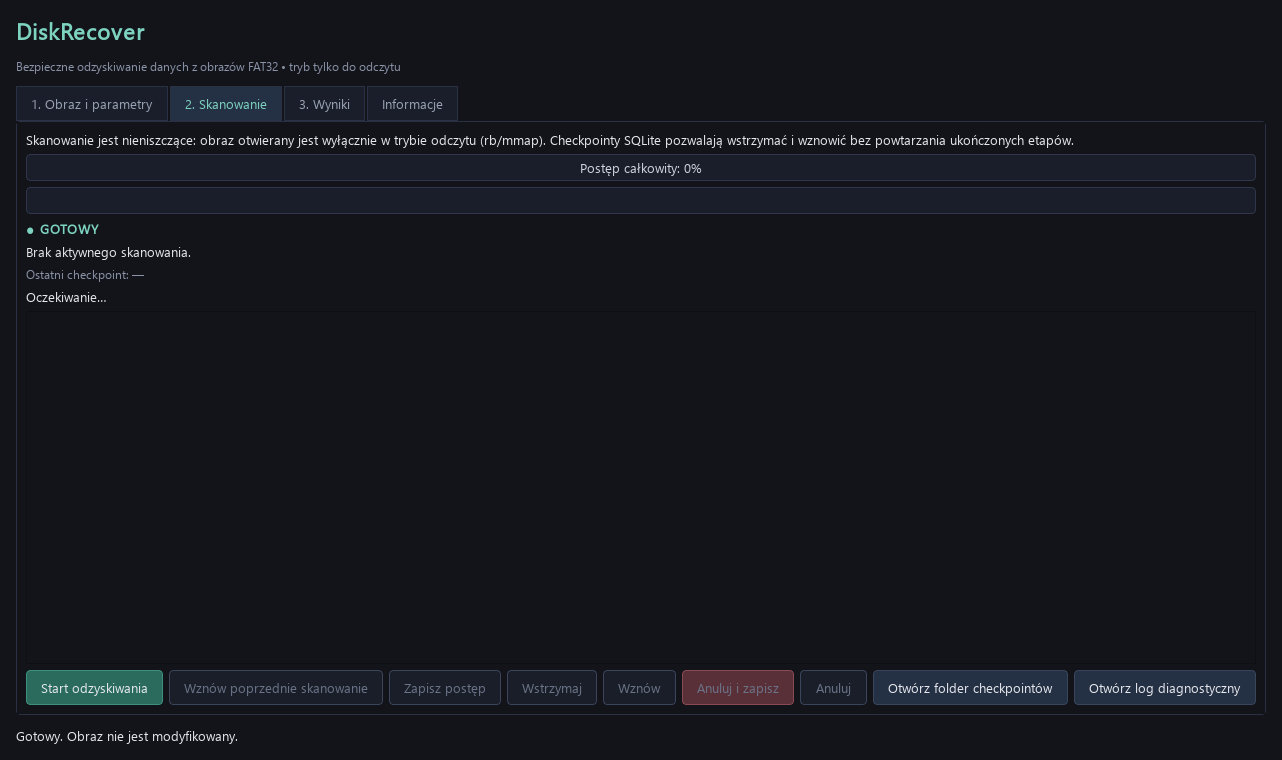
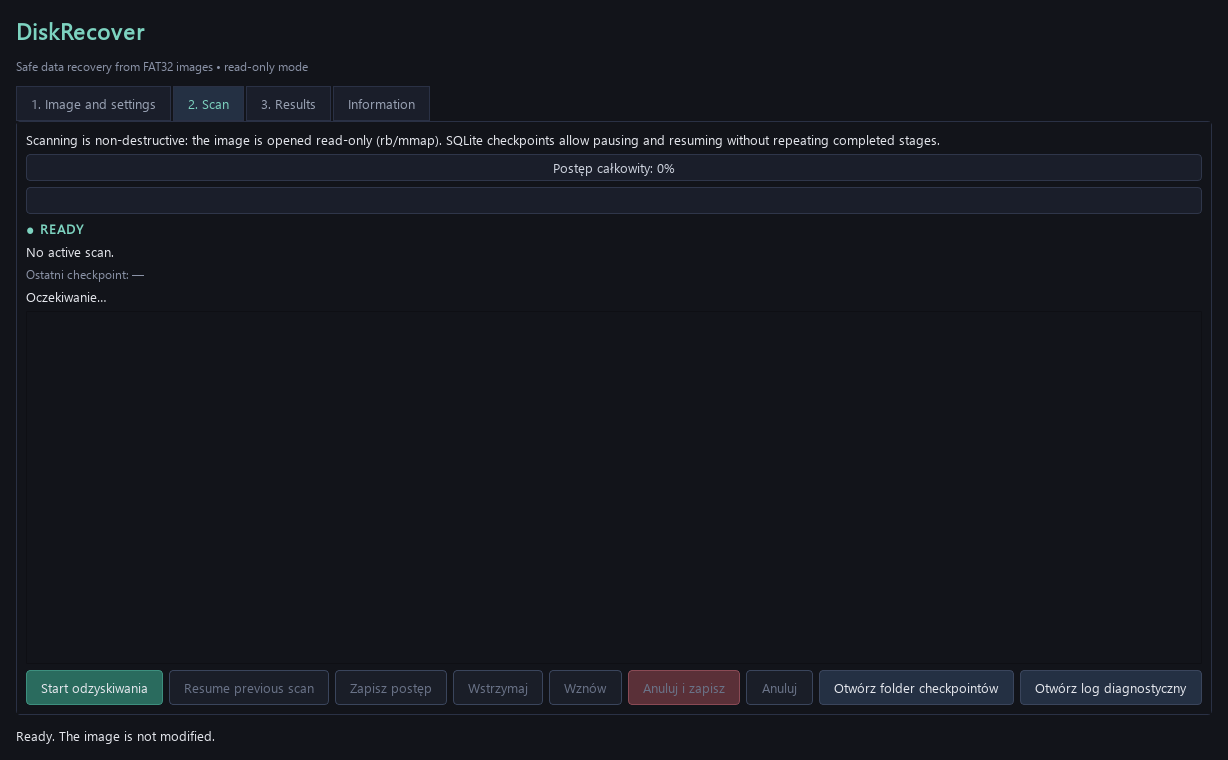
add English and Polish UI language switching

diff --git a/diskrecover/gui/main_window.py b/diskrecover/gui/main_window.py
@@ -8,6 +8,7 @@ from pathlib import Path
 
 from PySide6.QtCore import Qt, QTimer
 from PySide6.QtWidgets import (
+    QAbstractButton,
     QCheckBox,
     QComboBox,
     QDialog,
@@ -37,6 +38,7 @@ from diskrecover.core.checkpoint import ResultStore, default_checkpoint_dir
 from diskrecover.core.recovery import RecoveryEngine, RecoveryMode, available_checkpoints
 from diskrecover.gui.theme import DARK_QSS
 from diskrecover.gui.workers import AnalyzeWorker, RecoverWorker
+from diskrecover.i18n import UI_TRANSLATIONS
 
 class CheckpointPickerDialog(QDialog):
     def __init__(self, checkpoints: list[dict], parent=None) -> None:
@@ -81,7 +83,8 @@ class CheckpointPickerDialog(QDialog):
 class MainWindow(QMainWindow):
     def __init__(self, initial_image: str | None = None) -> None:
         super().__init__()
-        self.setWindowTitle("DiskRecover — odzyskiwanie FAT32")
+        self._language = "en"
+        self.setWindowTitle("DiskRecover — FAT32 recovery")
         self.resize(1100, 760)
         self.setStyleSheet(DARK_QSS)
 
@@ -106,7 +109,8 @@ class MainWindow(QMainWindow):
         layout.addWidget(brand)
         layout.addWidget(sub)
 
-        tabs = QTabWidget()
+        self.tabs = QTabWidget()
+        tabs = self.tabs
         layout.addWidget(tabs, 1)
 
         tabs.addTab(self._build_source_tab(), "1. Obraz i parametry")
@@ -120,7 +124,76 @@ class MainWindow(QMainWindow):
         if initial_image:
             self.image_edit.setText(initial_image)
 
+        self._retranslate_ui()
         self._refresh_resume_availability()
+
+    def _retranslate_ui(self) -> None:
+        """Apply the selected language to the currently visible UI."""
+        if self._language == "en":
+            translations = UI_TRANSLATIONS
+            title = "DiskRecover — FAT32 recovery"
+        else:
+            translations = {value: key for key, value in UI_TRANSLATIONS.items()}
+            title = "DiskRecover — odzyskiwanie FAT32"
+
+        def translated(text: str) -> str:
+            return translations.get(text, text)
+
+        self.setWindowTitle(title)
+        for widget in self.findChildren(QWidget):
+            if isinstance(widget, QAbstractButton):
+                widget.setText(translated(widget.text()))
+            elif isinstance(widget, QGroupBox):
+                widget.setTitle(translated(widget.title()))
+            elif isinstance(widget, QLabel):
+                widget.setText(translated(widget.text()))
+            elif isinstance(widget, QLineEdit):
+                widget.setPlaceholderText(translated(widget.placeholderText()))
+        for index in range(self.tabs.count()):
+            self.tabs.setTabText(index, translated(self.tabs.tabText(index)))
+        for index in range(self.mode_combo.count()):
+            self.mode_combo.setItemText(index, translated(self.mode_combo.itemText(index)))
+        self.table.setHorizontalHeaderLabels(
+            [translated(text) for text in ["Ścieżka", "Wyjście", "Rozmiar", "Pewność", "Kategoria"]]
+        )
+        self.language_label.setText("Language:" if self._language == "en" else "Język:")
+        self.language_combo.blockSignals(True)
+        self.language_combo.setCurrentIndex(0 if self._language == "en" else 1)
+        self.language_combo.blockSignals(False)
+        self.about_text.setHtml(self._about_html())
+
+    def _about_html(self) -> str:
+        if self._language == "en":
+            return """
+            <h2 style="color:#7dd3c0">DiskRecover</h2>
+            <p>Universal, non-destructive recovery from FAT32 disk images.</p>
+            <ul>
+              <li>Fully non-destructive — the image is never written</li>
+              <li>FAT parameters (BPB) validated from the image</li>
+              <li>Directory reconstruction, confidence levels, RAW carving</li>
+              <li>SQLite checkpoints: pause / resume / automatic saving</li>
+              <li>Separate confident, orphaned, RAW, and uncertain results</li>
+            </ul>
+            <p><b>Unsupported:</b> writing to the original media, in-place FAT repair,
+            filesystems other than FAT32, and mounting disk images.</p>
+            """
+        return """
+            <h2 style="color:#7dd3c0">DiskRecover</h2>
+            <p>Uniwersalne, nieniszczące odzyskiwanie danych z obrazów FAT32.</p>
+            <ul>
+              <li>Całkowicie nieniszcząca — obraz nigdy nie jest zapisywany</li>
+              <li>Parametry FAT (BPB) walidowane z obrazu</li>
+              <li>Rekonstrukcja katalogów, poziomy pewności, carving RAW</li>
+              <li>Checkpointy SQLite: pauza / wznowienie / auto-zapis</li>
+              <li>Rozdzielenie wyników pewnych, osieroconych, RAW i nieustalonych</li>
+            </ul>
+            <p><b>Nieobsługiwane:</b> zapis na oryginalny nośnik, naprawa tablic FAT
+            in-place, systemy plików inne niż FAT32 i montowanie obrazu.</p>
+            """
+
+    def _language_changed(self, index: int) -> None:
+        self._language = "en" if index == 0 else "pl"
+        self._retranslate_ui()
 
     def _build_source_tab(self) -> QWidget:
         w = QWidget()
@@ -343,24 +416,18 @@ class MainWindow(QMainWindow):
     def _build_about_tab(self) -> QWidget:
         w = QWidget()
         v = QVBoxLayout(w)
-        t = QTextEdit()
-        t.setReadOnly(True)
-        t.setHtml(
-            """
-            <h2 style="color:#7dd3c0">DiskRecover</h2>
-            <p>Uniwersalne, nieniszczące odzyskiwanie danych z obrazów FAT32.</p>
-            <ul>
-              <li>Całkowicie nieniszcząca — obraz nigdy nie jest zapisywany</li>
-              <li>Parametry FAT (BPB) walidowane z obrazu, nie z notatek</li>
-              <li>Rekonstrukcja katalogów, poziomy pewności, carving RAW</li>
-              <li>Checkpointy SQLite: pauza / wznowienie / auto-zapis</li>
-              <li>Rozdzielenie wyników pewnych, osieroconych, RAW i nieustalonych</li>
-            </ul>
-            <p><b>Nieobsługiwane:</b> zapis na oryginalny nośnik, naprawa tablic FAT in-place,
-            systemy plików inne niż FAT32, montowanie obrazu.</p>
-            """
-        )
-        v.addWidget(t)
+        language_row = QHBoxLayout()
+        self.language_label = QLabel("Language:")
+        self.language_combo = QComboBox()
+        self.language_combo.addItems(["English", "Polski"])
+        self.language_combo.currentIndexChanged.connect(self._language_changed)
+        language_row.addWidget(self.language_label)
+        language_row.addWidget(self.language_combo)
+        language_row.addStretch()
+        v.addLayout(language_row)
+        self.about_text = QTextEdit()
+        self.about_text.setReadOnly(True)
+        v.addWidget(self.about_text)
         return w
 
     def _browse_image(self) -> None:

diff --git a/diskrecover/i18n/en.py b/diskrecover/i18n/en.py
@@ -1,0 +1,75 @@
+"""English UI strings and translations."""
+
+TR = {
+    "app_name": "DiskRecover",
+    "ready": "Ready. The image is not modified.",
+    "analyze": "Analyze image",
+    "start": "Start recovery",
+    "cancel": "Cancel",
+    "target_default": "",
+}
+
+# Static strings are keyed by their Polish source text to keep the existing
+# UI construction readable and to make switching languages immediate.
+UI_TRANSLATIONS = {
+    "Wznów poprzednie skanowanie": "Resume previous scan",
+    "Wybierz zgodny checkpoint:": "Choose a compatible checkpoint:",
+    "Wybierz checkpoint.": "Choose a checkpoint.",
+    "DiskRecover — odzyskiwanie FAT32": "DiskRecover — FAT32 recovery",
+    "Bezpieczne odzyskiwanie danych z obrazów FAT32 • tryb tylko do odczytu": "Safe data recovery from FAT32 images • read-only mode",
+    "1. Obraz i parametry": "1. Image and settings",
+    "2. Skanowanie": "2. Scan",
+    "3. Wyniki": "3. Results",
+    "Informacje": "Information",
+    "Gotowy. Obraz nie jest modyfikowany.": "Ready. The image is not modified.",
+    "Plik obrazu dysku": "Disk image",
+    "Przeglądaj…": "Browse…",
+    "Ścieżka:": "Path:",
+    "Katalog wyjściowy:": "Output directory:",
+    "Katalog docelowy:": "Target directory:",
+    "Opcjonalnie: nazwa katalogu docelowego": "Optional: target directory name",
+    "LBA start partycji:": "Partition start LBA:",
+    "auto (z MBR/BPB)": "auto (from MBR/BPB)",
+    "Auto-checkpoint co:": "Auto-checkpoint every:",
+    "Parametry BPB (sektor, klaster, FAT) są zawsze odczytywane z obrazu. Pole LBA nadpisuje tylko lokalizację partycji, jeśli MBR jest uszkodzony.": "BPB parameters (sector, cluster, FAT) are always read from the image. LBA only overrides the partition location when the MBR is damaged.",
+    "Opcje": "Options",
+    "Włącz odzyskiwanie RAW (sygnatury plików)": "Enable RAW recovery (file signatures)",
+    "Głęboki skan klastrów (wolniejszy, dokładniejszy)": "Deep cluster scan (slower, more thorough)",
+    "Tryb odzyskiwania:": "Recovery mode:",
+    "TARGET_ONLY — tylko wskazany katalog": "TARGET_ONLY — selected directory only",
+    "FULL_RECOVERY — cały wolumin": "FULL_RECOVERY — entire volume",
+    "Pliki RAW trafiają wyłącznie do folderu RAW/ i nigdy nie są przypisywane do wskazanego katalogu bez dowodu.": "RAW files go only to RAW/ and are never assigned to the selected directory without evidence.",
+    "Analizuj obraz": "Analyze image",
+    "Wynik analizy MBR/BPB pojawi się tutaj…": "MBR/BPB analysis results will appear here…",
+    "Skanowanie jest nieniszczące: obraz otwierany jest wyłącznie w trybie odczytu (rb/mmap). Checkpointy SQLite pozwalają wstrzymać i wznowić bez powtarzania ukończonych etapów.": "Scanning is non-destructive: the image is opened read-only (rb/mmap). SQLite checkpoints allow pausing and resuming without repeating completed stages.",
+    "Postęp całkowity: %p%": "Overall progress: %p%",
+    "Postęp bieżącego etapu": "Current stage progress",
+    "● GOTOWY": "● READY",
+    "Brak aktywnego skanowania.": "No active scan.",
+    "Brak wyników — uruchom skanowanie.": "No results — start a scan.",
+    "Ścieżka": "Path",
+    "Wyjście": "Output",
+    "Rozmiar": "Size",
+    "Pewność": "Confidence",
+    "Kategoria": "Category",
+    "Odśwież wyniki": "Refresh results",
+    "Wczytaj wyniki z checkpointu": "Load results from checkpoint",
+    "Odzyskaj zaznaczone": "Recover selected",
+    "Odzyskaj powiązane z katalogiem docelowym": "Recover linked to target directory",
+    "Otwórz katalog wyjściowy": "Open output directory",
+    "Otwórz raport HTML": "Open HTML report",
+    "Uniwersalne, nieniszczące odzyskiwanie danych z obrazów FAT32.": "Universal, non-destructive recovery from FAT32 images.",
+    "Całkowicie nieniszcząca — obraz nigdy nie jest zapisywany": "Fully non-destructive — the image is never written",
+    "Parametry FAT (BPB) walidowane z obrazu, nie z notatek": "FAT parameters (BPB) are validated from the image, not assumptions",
+    "Rekonstrukcja katalogów, poziomy pewności, carving RAW": "Directory reconstruction, confidence levels, RAW carving",
+    "Checkpointy SQLite: pauza / wznowienie / auto-zapis": "SQLite checkpoints: pause / resume / automatic saving",
+    "Rozdzielenie wyników pewnych, osieroconych, RAW i nieustalonych": "Separate confident, orphaned, RAW, and uncertain results",
+    "Nieobsługiwane:": "Unsupported:",
+    "Wybierz obraz dysku": "Choose disk image",
+    "Wszystkie (*.*)": "All files (*.*)",
+    "Obrazy (*.bin *.img *.dd *.raw)": "Images (*.bin *.img *.dd *.raw)",
+    "Katalog wyjściowy": "Output directory",
+    "Podaj ścieżkę do obrazu.": "Enter an image path.",
+    "Podaj obraz i katalog wyjściowy.": "Enter an image and output directory.",
+    "Brak zgodnych checkpointów.": "No compatible checkpoints found.",
+}

diff --git a/diskrecover/i18n/__init__.py b/diskrecover/i18n/__init__.py
@@ -1,5 +1,6 @@
-"""Teksty UI — polski."""
+"""Runtime language resources for the GUI."""
 
-from diskrecover.i18n.pl import TR
+from diskrecover.i18n.en import TR as EN, UI_TRANSLATIONS
+from diskrecover.i18n.pl import TR as PL
 
-__all__ = ["TR"]
+__all__ = ["EN", "PL", "UI_TRANSLATIONS"]

diff --git a/README.md b/README.md
@@ -53,7 +53,8 @@ rescanning the image.
 ### Safety and capabilities
 
 The information view summarizes the non-destructive design and current
-filesystem support.
+filesystem support. English is selected by default; the language selector
+also provides Polish and updates the visible interface immediately.
 
 ![Safety and capabilities](docs/screenshots/about.png)
 
